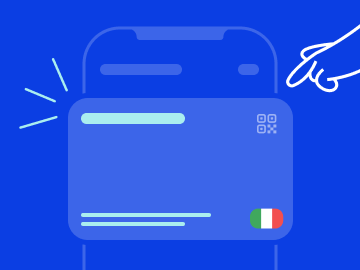
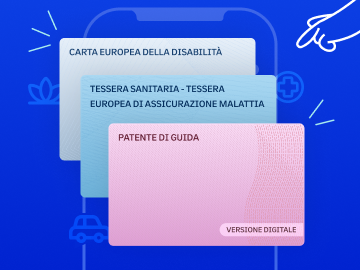
refactor: change image, copy and cta sticky in itw discovery screen

diff --git a/ts/features/itwallet/discovery/screens/ItwDiscoveryInfoScreen.tsx b/ts/features/itwallet/discovery/screens/ItwDiscoveryInfoScreen.tsx
@@ -1,7 +1,5 @@
 import {
   ContentWrapper,
-  FooterActions,
-  ForceScrollDownView,
   H1,
   VSpacer
 } from "@pagopa/io-app-design-system";
@@ -24,6 +22,7 @@ import { itwIsActivationDisabledSelector } from "../../common/store/selectors/re
 import { selectIsLoading } from "../../machine/eid/selectors";
 import { ItwEidIssuanceMachineContext } from "../../machine/provider";
 import { generateLinkRuleWithCallback } from "../../common/utils/markdown";
+import {IOScrollView} from "../../../../components/ui/IOScrollView.tsx";
 
 /**
  * This is the screen that shows the information about the discovery process
@@ -56,7 +55,19 @@ const ItwDiscoveryInfoScreen = () => {
   });
 
   return (
-    <ForceScrollDownView threshold={50}>
+    <IOScrollView
+      includeContentMargins={false}
+      actions={{
+        type: "SingleButton",
+        primary: {
+          loading: isLoading,
+          disabled: itwActivationDisabled,
+          label: I18n.t("global.buttons.continue"),
+          accessibilityLabel: I18n.t("global.buttons.continue"),
+          onPress: handleContinuePress
+        }
+      }}
+    >
       <AnimatedImage
         source={require("../../../../../img/features/itWallet/discovery/itw_hero.png")}
         style={styles.hero}
@@ -74,20 +85,7 @@ const ItwDiscoveryInfoScreen = () => {
           rules={generateLinkRuleWithCallback(trackOpenItwTos)}
         />
       </ContentWrapper>
-      <FooterActions
-        fixed={false}
-        actions={{
-          type: "SingleButton",
-          primary: {
-            loading: isLoading,
-            disabled: itwActivationDisabled,
-            label: I18n.t("global.buttons.continue"),
-            accessibilityLabel: I18n.t("global.buttons.continue"),
-            onPress: handleContinuePress
-          }
-        }}
-      />
-    </ForceScrollDownView>
+    </IOScrollView>
   );
 };
 
